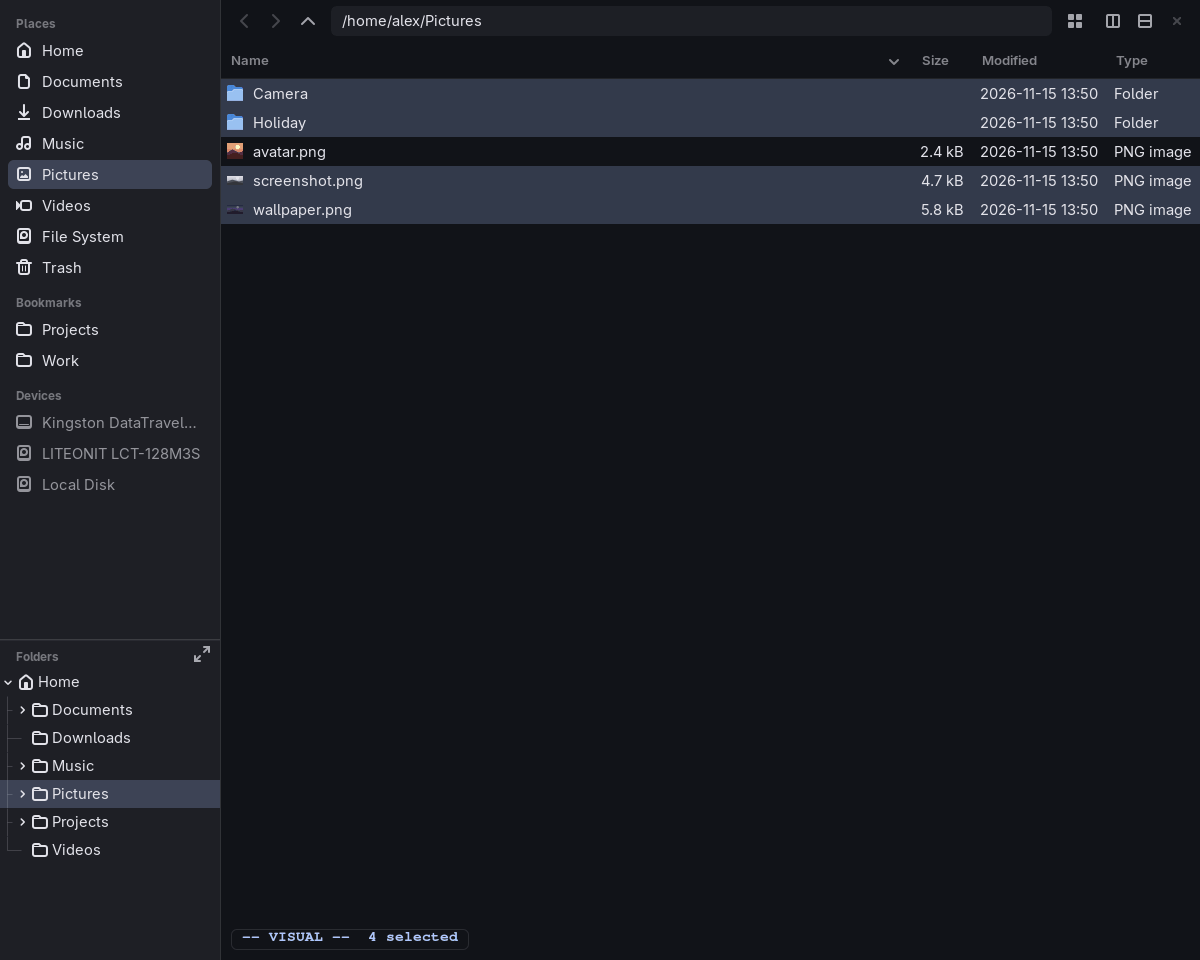
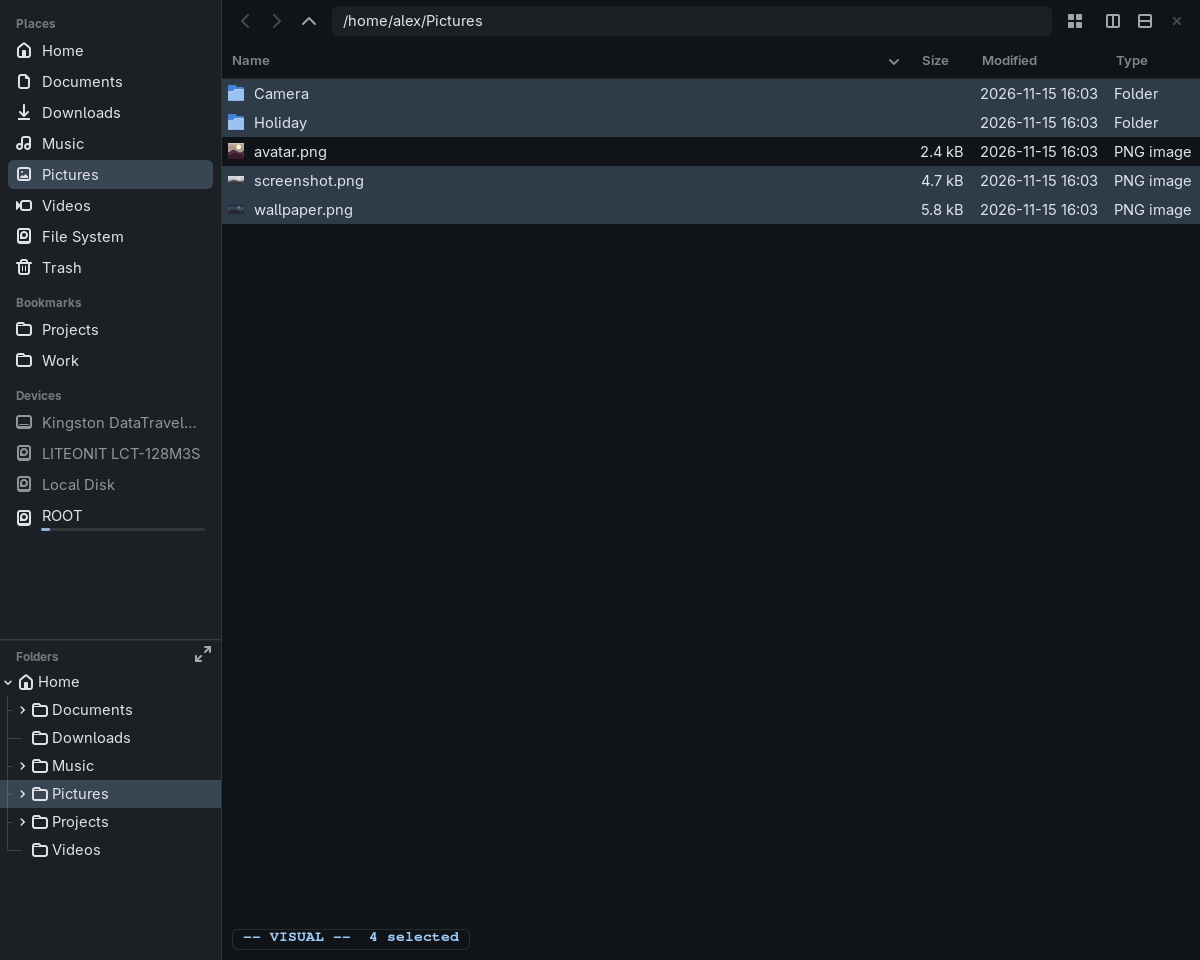
Guide: device usage bars and the devices option

diff --git a/docs/guide/index.md b/docs/guide/index.md
@@ -294,7 +294,10 @@ boxes can be changed directly.
 ## Drives
 
 Drives appear in the sidebar under *Devices*, named by their label or else
-by the drive's vendor and model (hover for size, filesystem and device):
+by the drive's vendor and model. Mounted drives, the system disk included,
+have a thin bar under the name showing how full they are (red above 90%);
+hover for the numbers ("94.1 GB used of 2.0 TB (5%) · 1.9 TB free") as well
+as the size, filesystem and device.
 
 - **Click** an unmounted drive to mount and open it (USB drives need no password).
 - **⏏** unmounts; for USB drives it also powers them off so they can be unplugged.
@@ -311,6 +314,10 @@ polkit.addRule(function(action, subject) {
         return polkit.Result.YES;
 });
 ```
+
+*Settings → Sidebar → Devices* (`devices` under `[sidebar]`) chooses what
+is listed: `all` (removable drives and internal disks) or `removable` (only
+what can be unplugged, such as flash drives and SD cards).
 
 Encrypted (LUKS) drives are not supported yet.
 
@@ -506,7 +513,7 @@ are saved to `config.toml`.
   confirmation and the window title bar. *Scale* grows
   everything: text, icons, buttons and the sidebar.
 - **Thumbnails**: on or off, and the size limit ([Thumbnails](#thumbnails)).
-- **Sidebar**: GTK bookmarks.
+- **Sidebar**: which [devices](#drives) are listed, and GTK bookmarks.
 - **Keys**: every key with its command and what it does. Double-click a
   command to change it (any command line works, with arguments); *Add…*
   binds new keys, normal or visual mode only; *Unbind* switches a key off;
